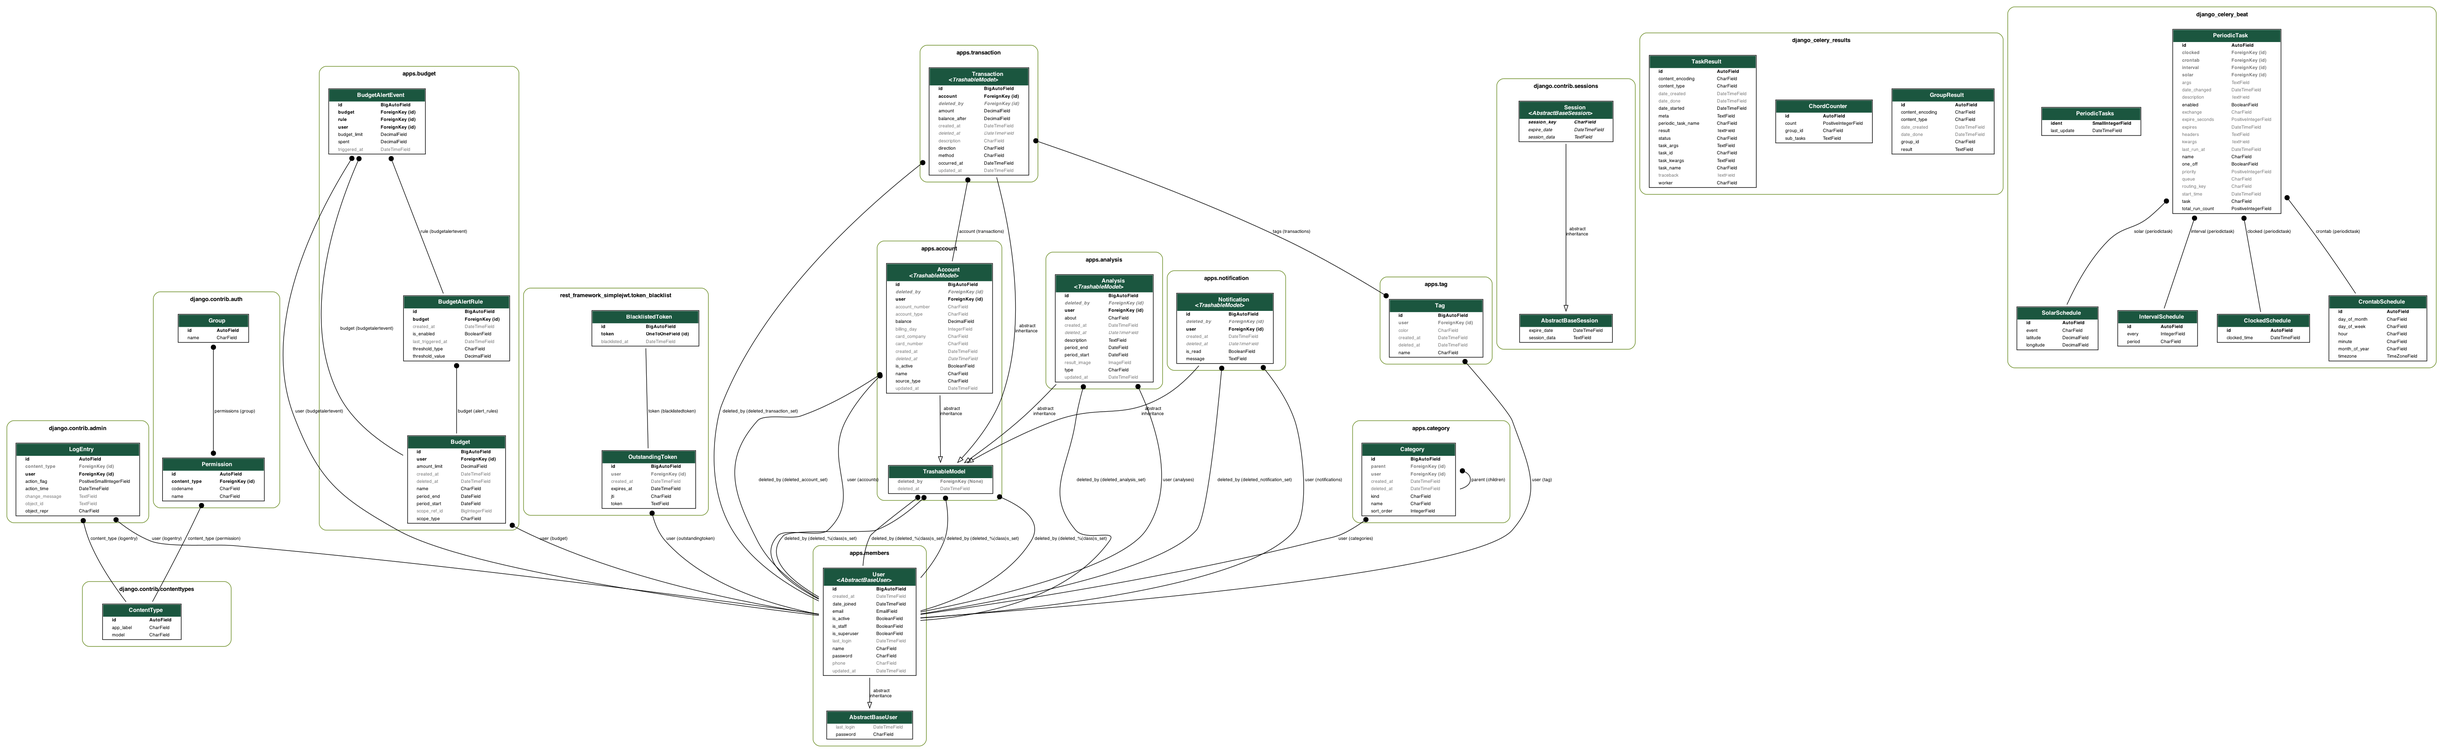
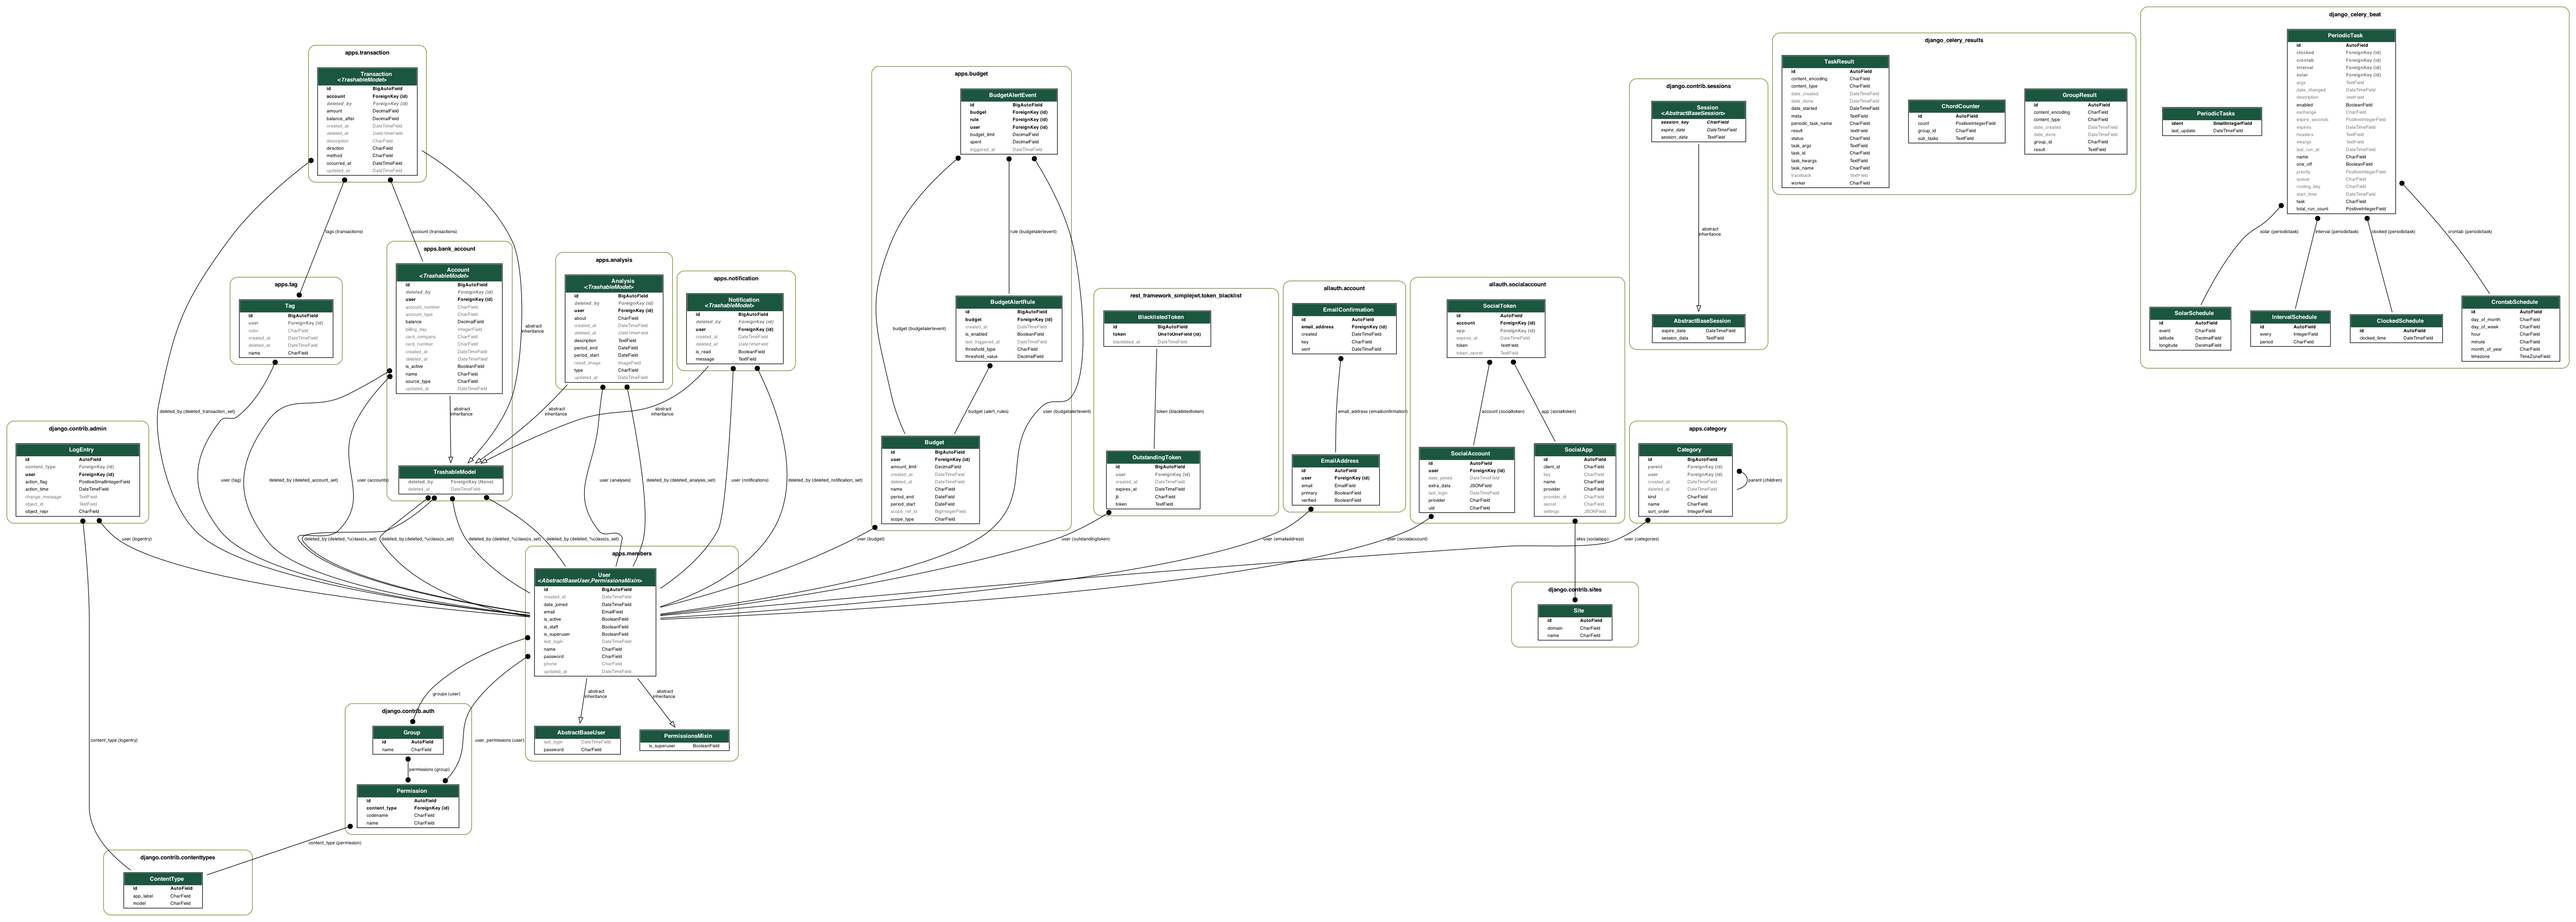
✨ feat : 마이그레이션 및 run.sh 복구

diff --git a/apps/bank_account/migrations/0001_initial.py b/apps/bank_account/migrations/0001_initial.py
@@ -1,6 +1,7 @@
-# Generated by Django 6.0 on 2026-01-06 05:58
+# Generated by Django 5.2.10 on 2026-01-12 10:20
 
 import django.db.models.deletion
+from django.conf import settings
 from django.db import migrations, models
 
 
@@ -8,7 +9,7 @@ class Migration(migrations.Migration):
     initial = True
 
     dependencies = [
-        ("members", "0001_initial"),
+        migrations.swappable_dependency(settings.AUTH_USER_MODEL),
     ]
 
     operations = [
@@ -21,6 +22,7 @@ class Migration(migrations.Migration):
                         auto_created=True, primary_key=True, serialize=False, verbose_name="ID"
                     ),
                 ),
+                ("deleted_at", models.DateTimeField(blank=True, db_index=True, null=True)),
                 ("name", models.CharField(max_length=50)),
                 (
                     "source_type",
@@ -32,7 +34,6 @@ class Migration(migrations.Migration):
                 ("balance", models.DecimalField(decimal_places=2, max_digits=14)),
                 ("is_active", models.BooleanField(default=True)),
                 ("account_number", models.CharField(blank=True, max_length=32)),
-                ("bank_code", models.CharField(blank=True, max_length=20)),
                 ("account_type", models.CharField(blank=True, max_length=30)),
                 ("card_company", models.CharField(blank=True, max_length=30)),
                 ("card_number", models.CharField(blank=True, max_length=32)),
@@ -40,13 +41,26 @@ class Migration(migrations.Migration):
                 ("created_at", models.DateTimeField(auto_now_add=True)),
                 ("updated_at", models.DateTimeField(auto_now=True)),
                 (
+                    "deleted_by",
+                    models.ForeignKey(
+                        blank=True,
+                        null=True,
+                        on_delete=django.db.models.deletion.SET_NULL,
+                        related_name="deleted_%(class)s_set",
+                        to=settings.AUTH_USER_MODEL,
+                    ),
+                ),
+                (
                     "user",
                     models.ForeignKey(
                         on_delete=django.db.models.deletion.CASCADE,
                         related_name="accounts",
-                        to="members.user",
+                        to=settings.AUTH_USER_MODEL,
                     ),
                 ),
             ],
+            options={
+                "abstract": False,
+            },
         ),
     ]

diff --git a/apps/members/migrations/0003_user_groups_user_user_permissions.py b/apps/members/migrations/0003_user_groups_user_user_permissions.py
@@ -1,0 +1,37 @@
+# Generated by Django 5.2.10 on 2026-01-12 10:20
+
+from django.db import migrations, models
+
+
+class Migration(migrations.Migration):
+    dependencies = [
+        ("auth", "0012_alter_user_first_name_max_length"),
+        ("members", "0002_initial_user"),
+    ]
+
+    operations = [
+        migrations.AddField(
+            model_name="user",
+            name="groups",
+            field=models.ManyToManyField(
+                blank=True,
+                help_text="The groups this user belongs to. A user will get all permissions granted to each of their groups.",
+                related_name="user_set",
+                related_query_name="user",
+                to="auth.group",
+                verbose_name="groups",
+            ),
+        ),
+        migrations.AddField(
+            model_name="user",
+            name="user_permissions",
+            field=models.ManyToManyField(
+                blank=True,
+                help_text="Specific permissions for this user.",
+                related_name="user_set",
+                related_query_name="user",
+                to="auth.permission",
+                verbose_name="user permissions",
+            ),
+        ),
+    ]

diff --git a/apps/transaction/migrations/0003_transaction_deleted_at_transaction_deleted_by.py b/apps/transaction/migrations/0003_transaction_deleted_at_transaction_deleted_by.py
@@ -29,4 +29,3 @@ class Migration(migrations.Migration):
             ),
         ),
     ]
-
